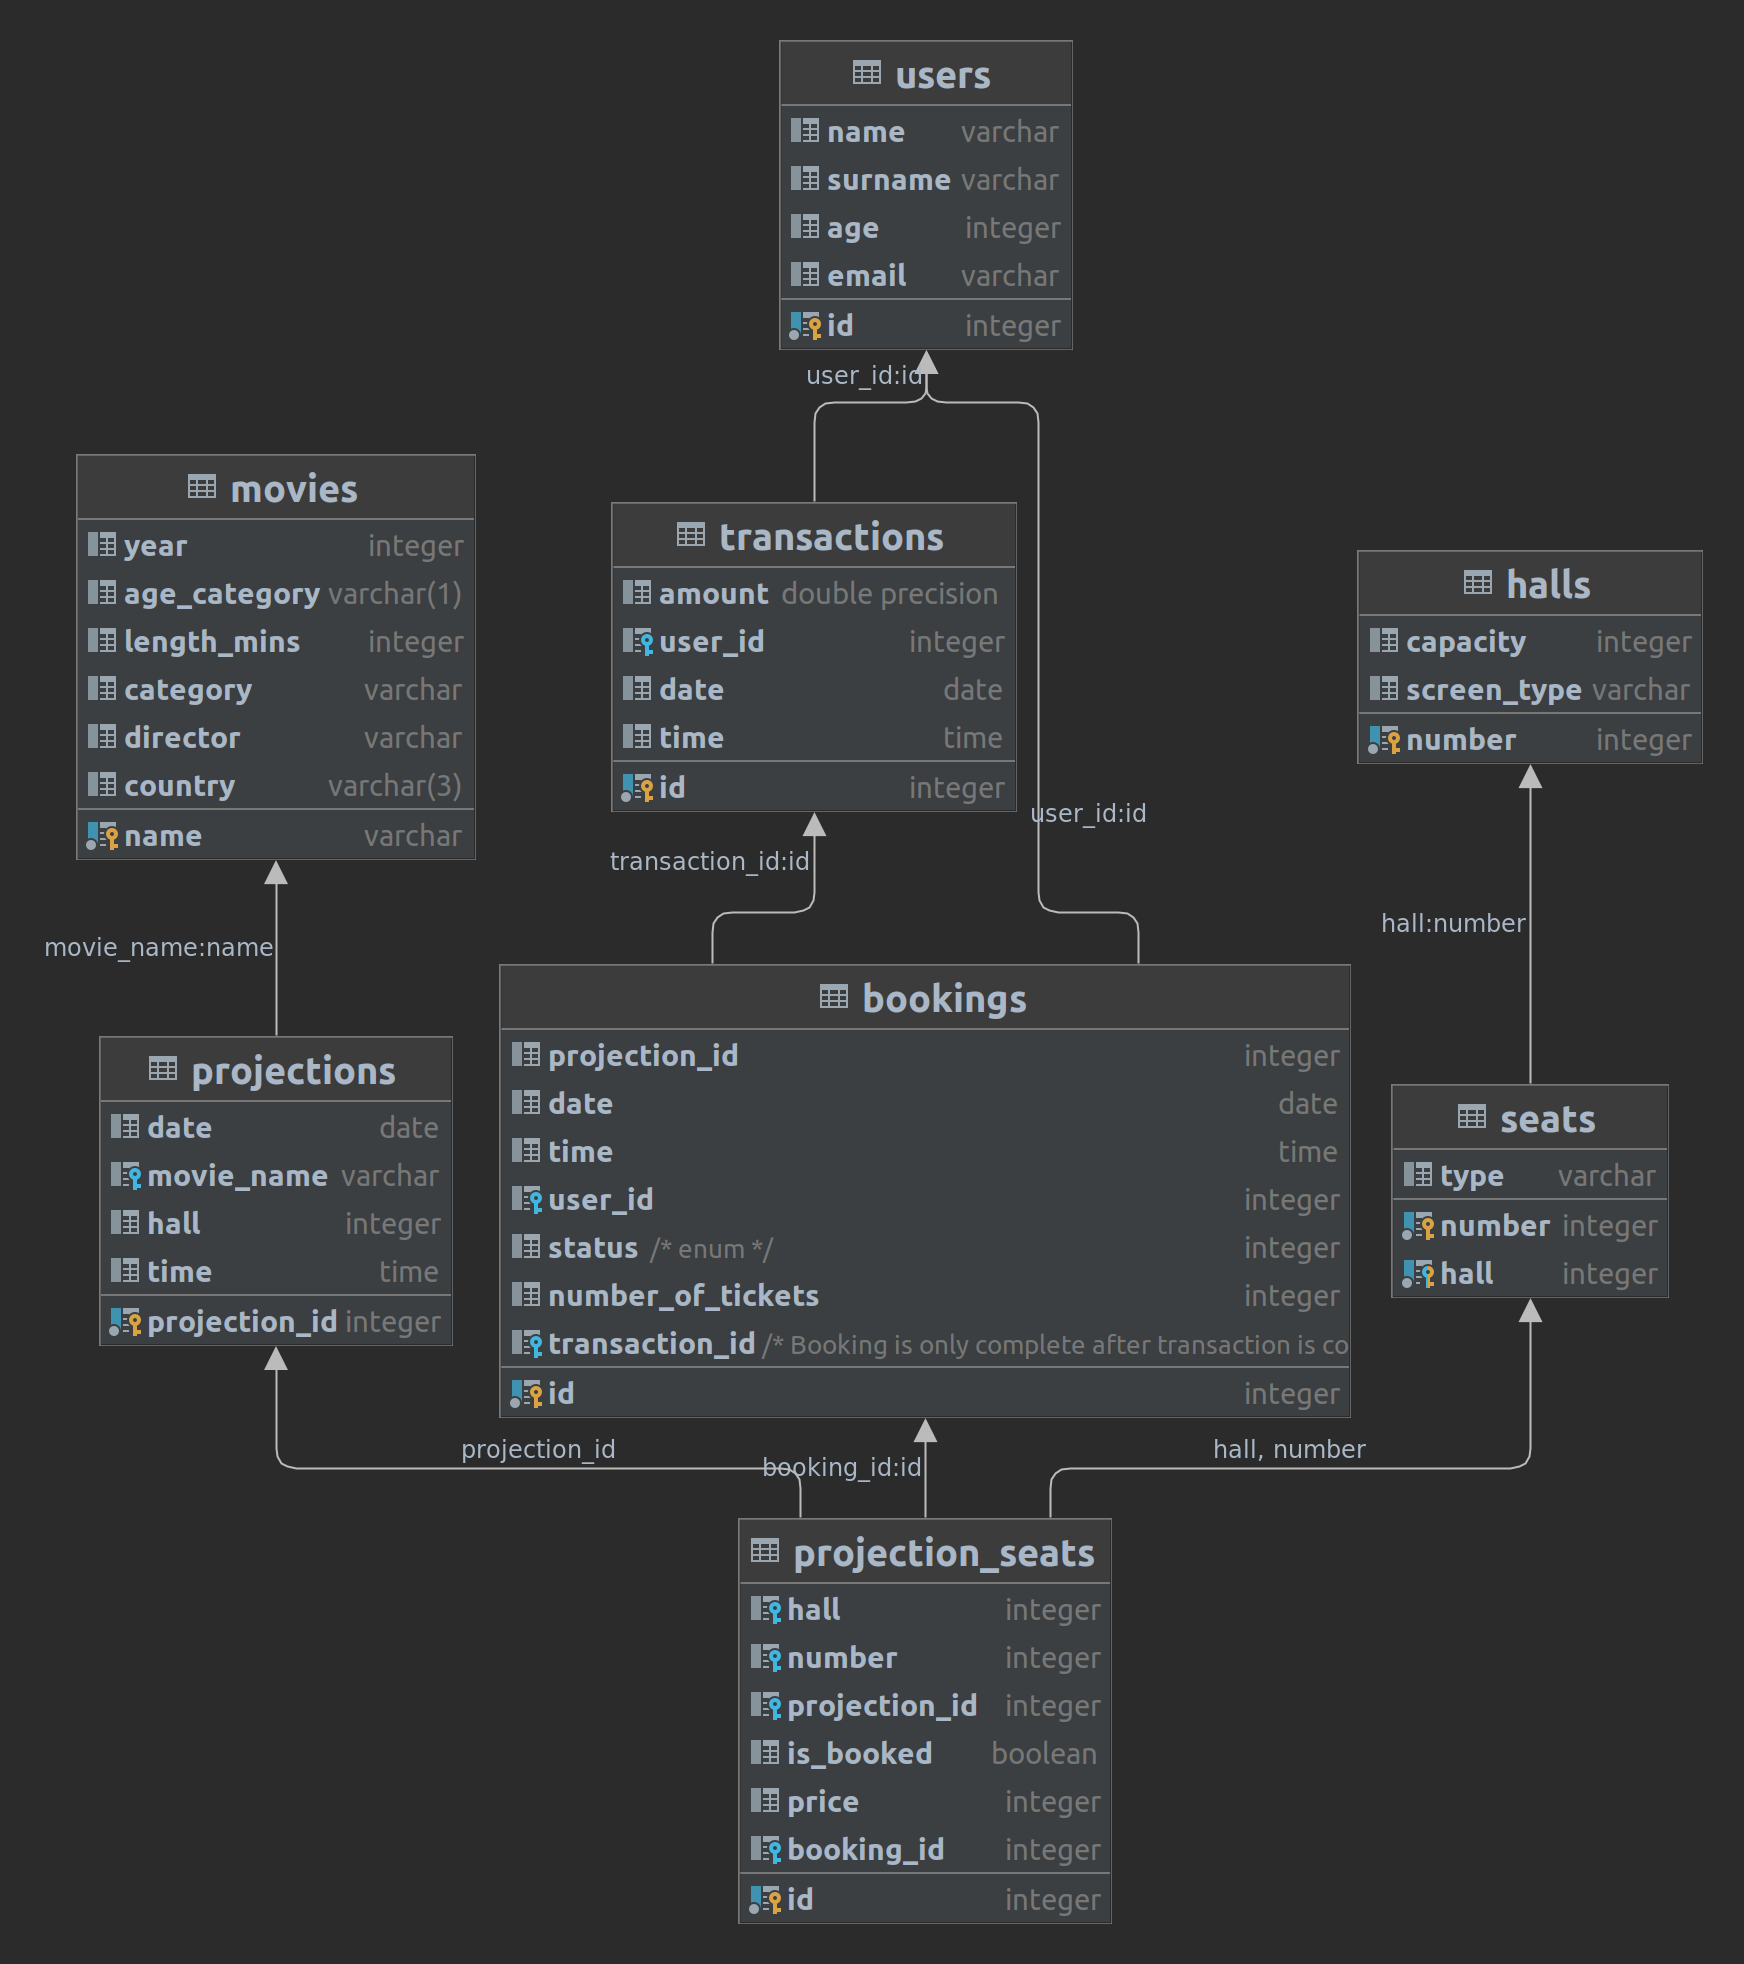
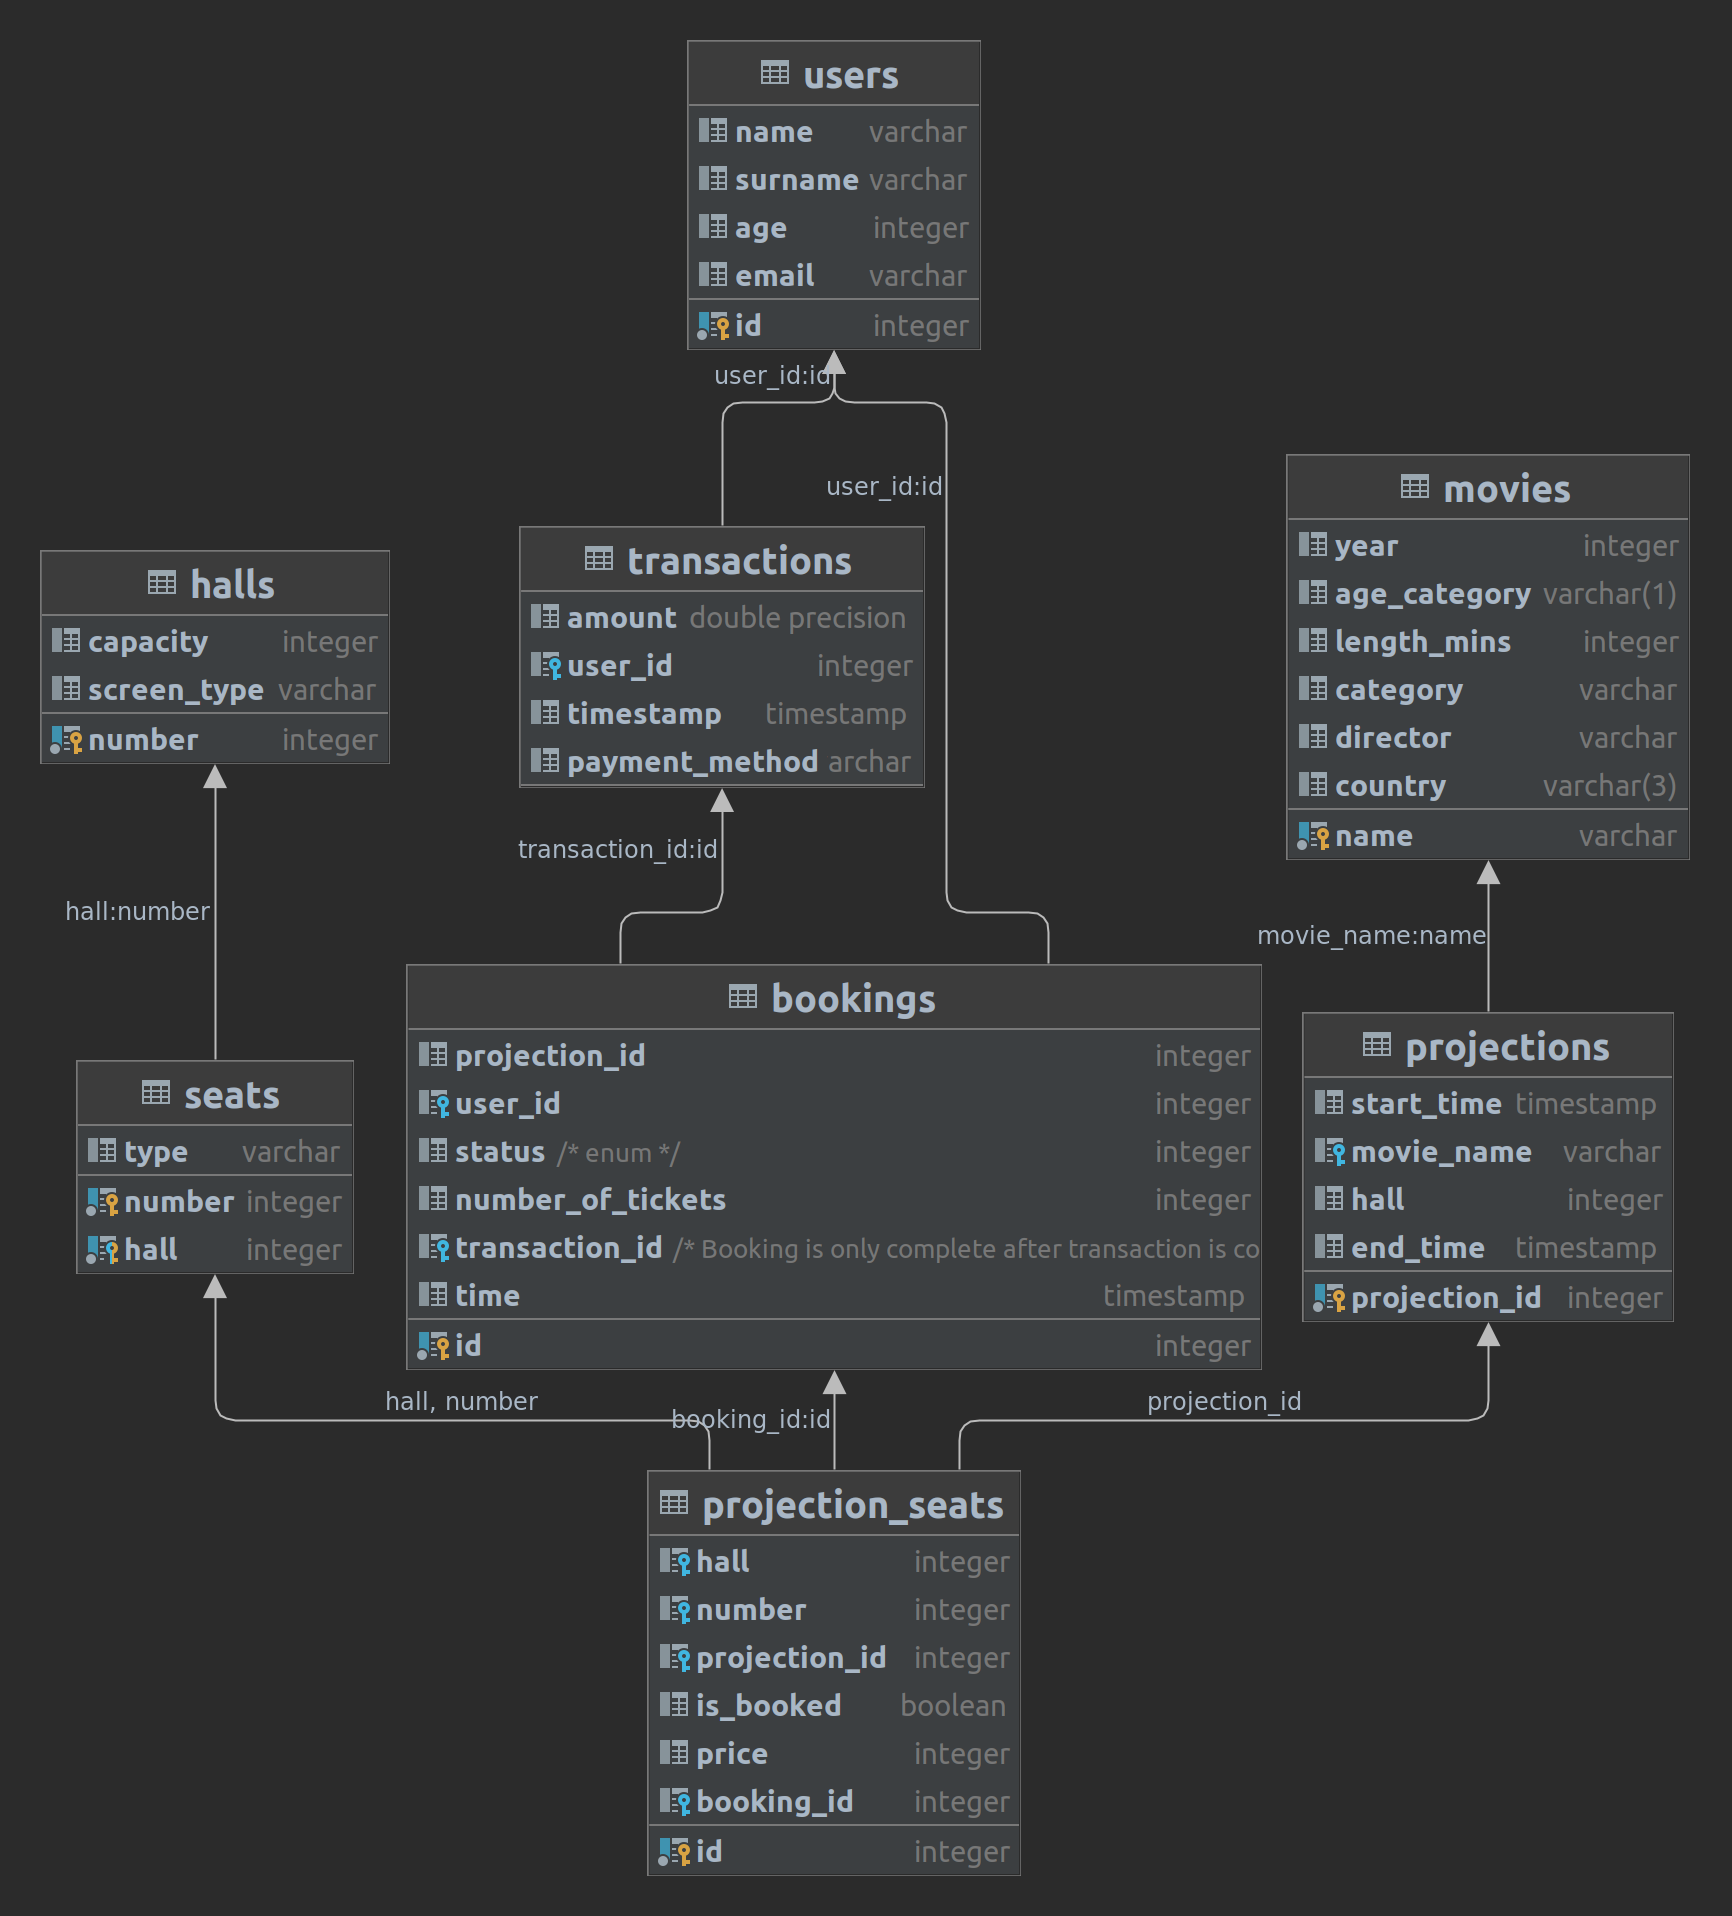
normalization

diff --git a/cinemaBookingProject/db/README.md b/cinemaBookingProject/db/README.md
@@ -18,7 +18,9 @@ This database should be usable for a long period of time, easily maintainable an
 - As a combination from the previous two, projection-specific data should be kept about all seats. This table should include information about the hall, seat number, projection, status (booked or free), price (because it can vary from hall to hall, movie to movie, date to date, etc.), and a relation to a booking (if the seat is booked, otherwise NULL).
 - Information about the users should include name, surname, age, and email.
 - All monetary transactions should be also kept in the database as a payment confirmation in order to check for ticket validity (tickets shown at the movie entrance are checked against their transaction id to match different fields). Information about the transaction amount, user who made the transaction, and a timestamp should be kept about all of them.
-- Booking data should include the user, status (enum - IN PROGRESS, COMPLETED, REVERTED), number of tickets, transaction info, and a timestamp. 
+- Booking data should include the user, status (enum - IN PROGRESS, COMPLETED, REVERTED), number of tickets, transaction info, and a timestamp.
+- Users should be able to see all available tickets for a selected projection.
+- Users should be able to see all movies which are projected in the next week.
 
 ## Non-functional requirements
 - To make sure that the tickets sold online or via the theater desk, they would incorporate a qr-code, which will contain information about the successful transaction, making the tickets unique and securing the whole system.
@@ -36,8 +38,27 @@ This database should be usable for a long period of time, easily maintainable an
 - The number of tickets in the bookings table, hall and seat numbers, prices, hall capacities, and user ages should be positive integers.
 
 ## Normalization
+Our database schema if following all requirements for the 3NF, which is considered a minimum for database designs.
 
+- ### 1NF
+  - ✅ Each table cell should contain a single value.
+  - ✅ Each record needs to be unique
+- ### 2NF
+  - ✅ Every non-key attribute is dependent on every key
+- ### 3NF
+  - ✅ Lacks transitive functional dependencies
+- ### Boyce Codd normal form (BCNF)
+  - Our database does not follow the BCNF normalization form since in the `seats` table we use both the hall and seat number to identify the exact seat. For our example this is perfectly fine, but it could cause problems in other systems.
+
+### What could have been different?
+If we used a single table for the both the users and the transactions that they have completed through our service, for example. The schema of the resulting table would look something like this:
+
+![](res/UsersTransactionsTable.png)
+
+Such a schema allows us to make many mistakes such as data duplication, update anomalies, insert anomalies and others.
 
 ## Transfer to SQL DDL
-The database initialization script can be found [here]()
+The database initialization script can be found [here](./scripts/db_init.sql).
+
+## SQL Queries
 
